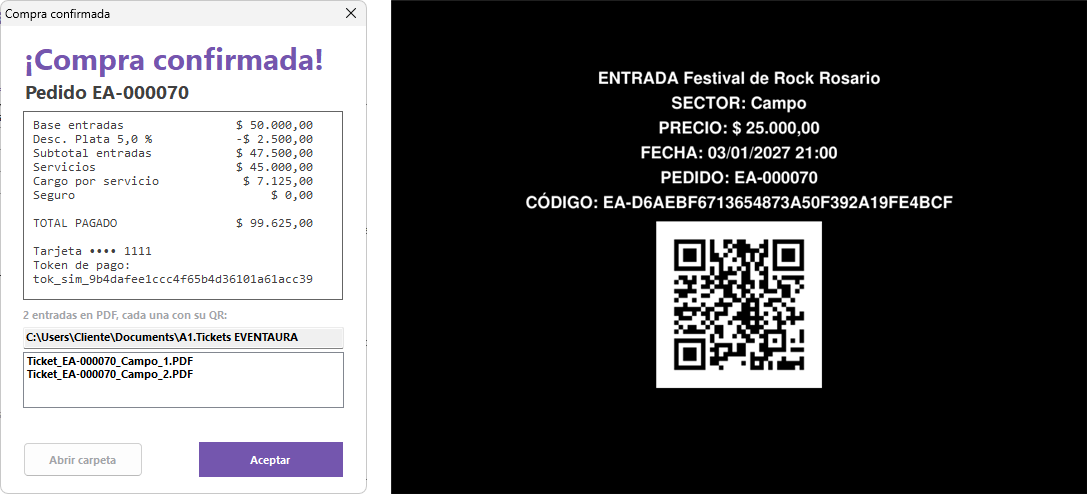
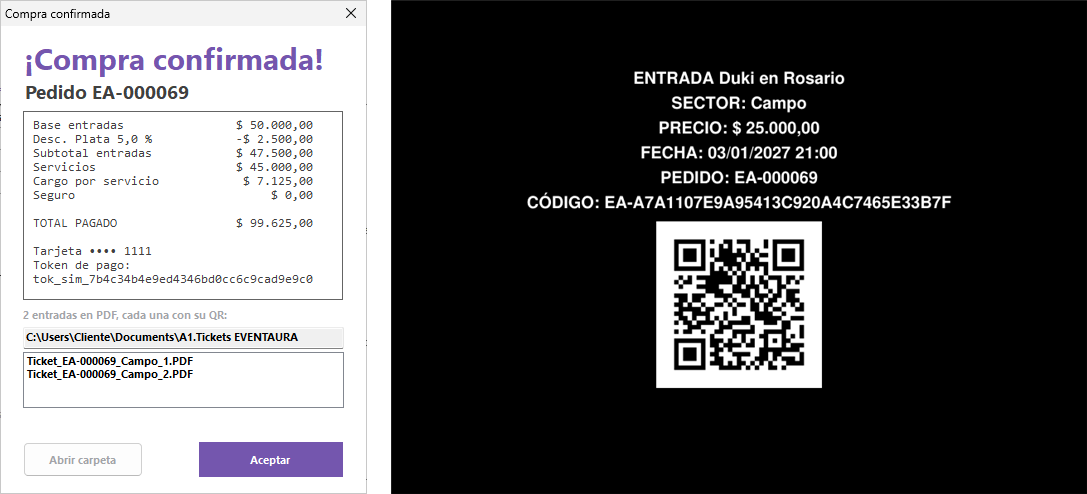
Instructivo: figuras definitivas con «Duki en Rosario»
Figuras regeneradas con la semilla de T-21: listado con «Duki en Rosario»,
armado con 2 Campo y hospedaje, resumen con $99.625 (igual a la página 54)
y confirmación con el ticket. La figura 2 ya no sale con la barra de
título gris ni con píxeles de otras ventanas: el programa de capturas
muestra la compra antes de ocultar el listado y pide esquinas rectas a
Windows 11 en las ventanas que fotografía.

diff --git a/tools/CapturasInstructivo/Captura.cs b/tools/CapturasInstructivo/Captura.cs
@@ -15,6 +15,7 @@ using System.Windows.Forms;
 static class Captura
 {
     [DllImport("dwmapi.dll")] static extern int DwmGetWindowAttribute(IntPtr h, int attr, out RECT r, int size);
+    [DllImport("dwmapi.dll")] static extern int DwmSetWindowAttribute(IntPtr h, int attr, ref int valor, int size);
     [DllImport("user32.dll")] static extern bool EnumThreadWindows(uint id, EnumProc cb, IntPtr p);
     [DllImport("user32.dll", CharSet = CharSet.Unicode)] static extern int GetClassName(IntPtr h, StringBuilder s, int n);
     [DllImport("user32.dll", CharSet = CharSet.Unicode)] static extern int GetWindowText(IntPtr h, StringBuilder s, int n);
@@ -45,22 +46,25 @@ static class Captura
 
     static void Correr()
     {
-        const int Paula = 3, Festival = 1;
+        const int Paula = 3, Duki = 1;   // ejemplo de la página 54 del documento
 
-        // Figura 1 — listado de eventos (pasos 1 y 2), con el Festival seleccionado.
+        // Figura 1 — listado de eventos (pasos 1 y 2), con «Duki en Rosario» seleccionado.
         var eventos = new Visual.frmEventosCliente { IDUsuario = Paula, NombreUsuario = "Paula" };
         eventos.Show(); Esperar(800);
         var grilla = Buscar<DataGridView>(eventos, "dgveventos");
         // Por ID y no por nombre: el evento 1 de la semilla es el del ejemplo del documento.
         foreach (DataGridViewRow fila in grilla.Rows)
-            if (Convert.ToString(fila.Cells["ID"].Value) == Festival.ToString())
+            if (Convert.ToString(fila.Cells["ID"].Value) == Duki.ToString())
                 grilla.CurrentCell = fila.Cells["Nombre"];
         Guardar(eventos, "figura1-listado-eventos.png");
-        eventos.Hide();
 
         // Figuras 2 y 3 — armado del paquete del ejemplo: Plata, 2 Campo a $25.000, hospedaje.
-        var compra = new Visual.FrmCompraCliente { IDEvento = Festival, IDUsuario = Paula, NombreUsuario = "Paula" };
-        compra.Show(); Esperar(800);
+        // La compra se muestra ANTES de ocultar el listado: si no, Windows le da el foco a
+        // otra aplicación y la figura sale con la barra de título gris de ventana inactiva.
+        var compra = new Visual.FrmCompraCliente { IDEvento = Duki, IDUsuario = Paula, NombreUsuario = "Paula" };
+        compra.Show(); Esperar(300);
+        eventos.TopMost = false; eventos.Hide();
+        Esperar(500);
         var sectores = Buscar<DataGridView>(compra, "dgvSectores");
         foreach (DataGridViewRow fila in sectores.Rows)
             foreach (DataGridViewCell celda in fila.Cells)
@@ -189,8 +193,13 @@ static class Captura
 
     static void Traer(Form f)
     {
+        // Windows 11 redondea las esquinas y deja ver lo que hay detrás de la ventana: en una
+        // figura del documento aparecían píxeles de otras aplicaciones. Esquinas rectas.
+        int sinRedondear = 1;   // DWMWCP_DONOTROUND
+        DwmSetWindowAttribute(f.Handle, 33, ref sinRedondear, sizeof(int));   // DWMWA_WINDOW_CORNER_PREFERENCE
         f.TopMost = true; f.Activate(); SetForegroundWindow(f.Handle);
         Esperar(500);
+        if (Form.ActiveForm != f) log.Add("AVISO: " + f.Name + " no quedó como ventana activa al capturarla");
     }
 
     static void Esperar(int ms)

diff --git a/docs/capturas/instructivo/LEEME.md b/docs/capturas/instructivo/LEEME.md
@@ -2,12 +2,15 @@
 
 Las cuatro figuras que el documento deja como «Espacio reservado para captura de pantalla».
 Se tomaron el 04/11/2026 con la aplicación real, a escala 100 % (96 DPI), sobre
-`BddEventAura_Pruebas` recién recreada con la semilla: la clienta es Paula, nivel Plata. Para
-regenerarlas: `tools/CapturasInstructivo/Generar.ps1`.
+`BddEventAura_Pruebas` recién recreada con la semilla de T-21. Reproducen el ejemplo de la
+página 54: evento «Duki en Rosario», clienta Paula, nivel Plata con 4 compras, 2 entradas de
+Campo a $25.000 y hospedaje de $45.000. El resumen coincide línea por línea con la tabla de
+esa página: base $50.000, descuento −$2.500, subtotal $47.500, hospedaje $45.000, cargo
+$7.125, **total $99.625**. Para regenerarlas: `tools/CapturasInstructivo/Generar.ps1`.
 
 | Archivo | Epígrafe en el PDF | Qué muestra |
 |---|---|---|
-| `figura1-listado-eventos.png` | Figura 1 — Listado de eventos disponibles (pasos 1 y 2) | Buscador con texto guía, filtros de categoría y fecha, listado de eventos vigentes con el «Festival de Rock Rosario» seleccionado |
+| `figura1-listado-eventos.png` | Figura 1 — Listado de eventos disponibles (pasos 1 y 2) | Buscador con texto guía, filtros de categoría y fecha, listado de eventos vigentes con «Duki en Rosario» seleccionado |
 | `figura2-armado-paquete.png` | Figura 2 — Pantalla de armado de paquete (pasos 3 a 5) | Sectores con precio, disponibles y cantidad (2 en Campo), servicios con precio (hospedaje tildado), seguro sin tildar, nivel Plata con el enlace a los niveles, resumen y botones |
 | `figura3-resumen-descuento.png` | Figura 3 — Resumen del paquete con el descuento aplicado (paso 6) | El panel de resumen recortado: base $50.000, descuento Plata 5 % −$2.500, hospedaje sin descuento $45.000, cargo $7.125, **total $99.625** y la leyenda de RN-21 |
 | `figura4-confirmacion-y-comprobante.png` | Figura 4 — Confirmación de compra y comprobante emitido (pasos 7 y 8) | A la izquierda, «¡Compra confirmada!» con el pedido, el desglose, la tarjeta enmascarada y el token; a la derecha, el ticket PDF de una de las entradas, con su código y su QR |
@@ -15,10 +18,10 @@ regenerarlas: `tools/CapturasInstructivo/Generar.ps1`.
 
 ## Observaciones para quien pegue las figuras en el documento
 
-1. **Estas capturas todavía muestran «Festival de Rock Rosario».** JC decidió alinear la
-   semilla con el ejemplo de la página 54: «Duki en Rosario» y una clienta Plata con 4
-   compras, mismos importes. Codex lo hace en T-21 (`docs/TAREAS-CODEX-PRUEBAS.md`). Después,
-   Claude Code regenera las figuras con `Generar.ps1`, y esas son las que van al documento.
+1. **Son las definitivas.** Se regeneraron después de T-21, cuando la semilla quedó alineada
+   con el ejemplo de la página 54. Un docente puede reproducirlas siguiendo el instructivo:
+   iniciar sesión como `plata@eventaura.com`, elegir «Duki en Rosario», 2 entradas de Campo
+   y el hospedaje.
 2. **La ruta de la figura 4 es neutra:** `C:\Users\Cliente\Documents\A1.Tickets EVENTAURA`.
    El programa de captura reemplaza la carpeta real del usuario antes de fotografiar.
 3. **Todo lo que hay que cambiar en el texto del documento** (por ejemplo, el estado de
